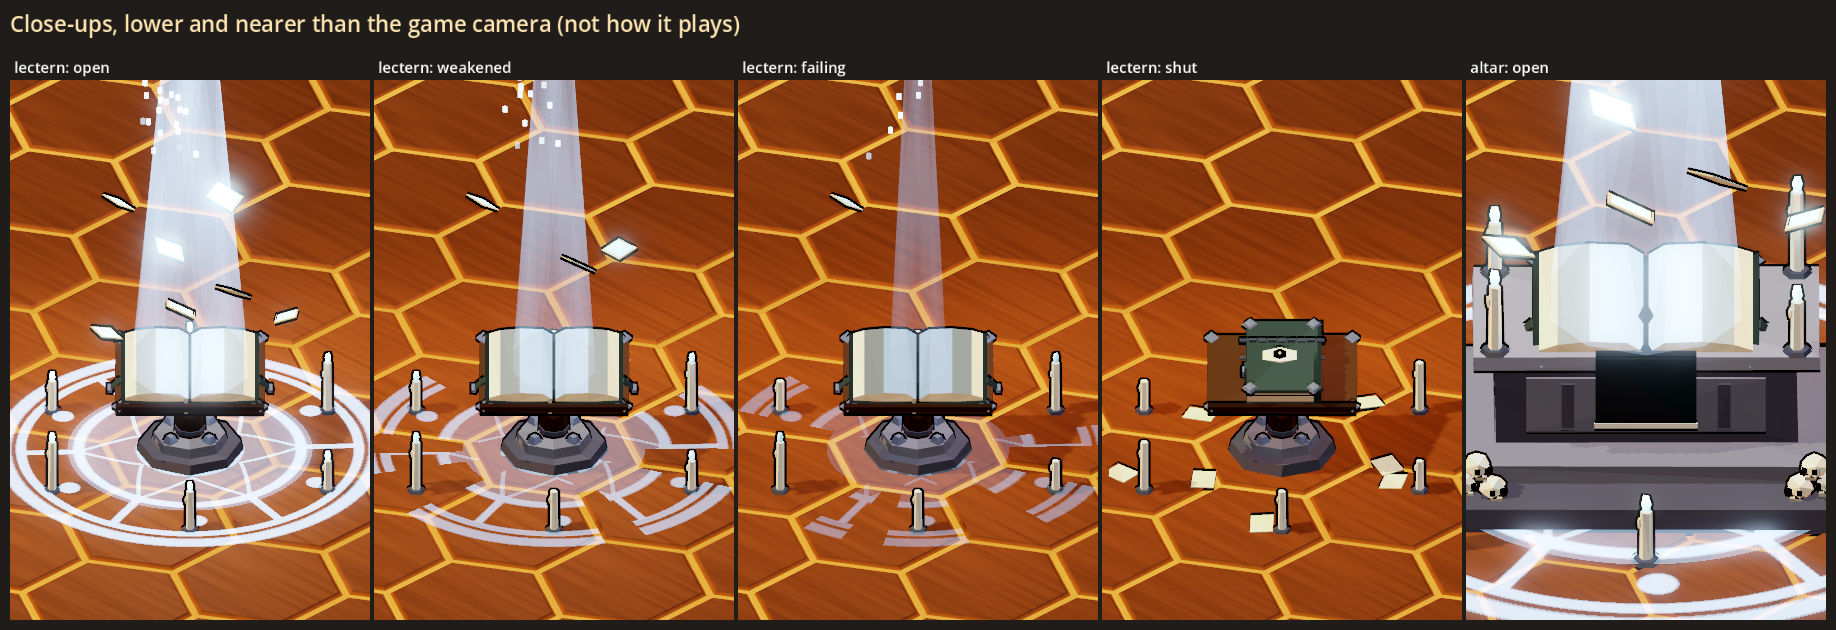
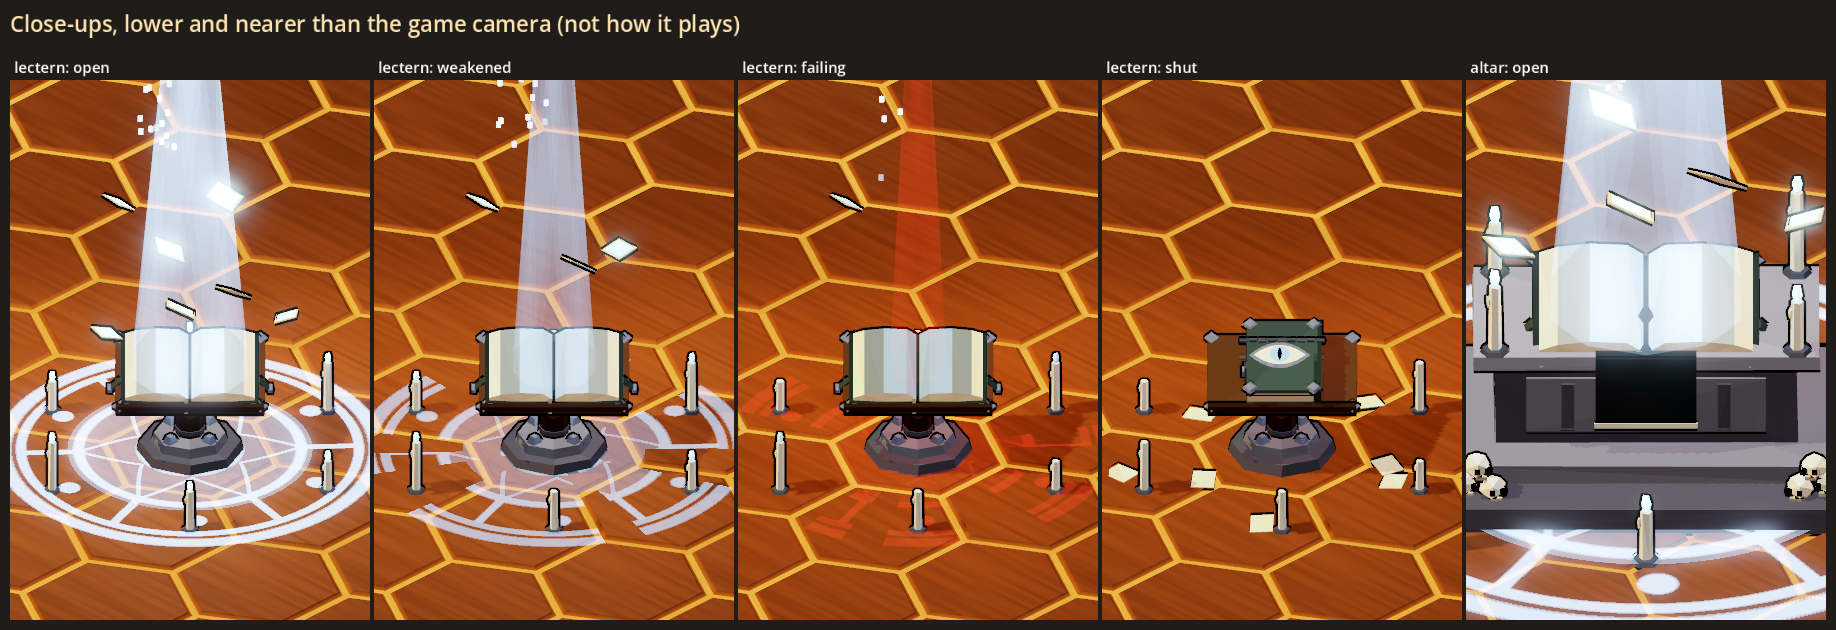
Grimoire: the altar (the user's pick); the cover eye redrawn as a big almond with a glowing iris

diff --git a/docs/design/necro-look.md b/docs/design/necro-look.md
@@ -30,12 +30,17 @@ on eyes, hands, flames and pages, and the rim (the faceted fresnel) on the raise
   light drops as it weakens. The torn and burnt books are gone. (The sections below still describe the first version.)
 - **A failing book's flicker tends red**: "Failing - maybe we have the flicker tend red?" Failing, its column, circle and
   light lean toward red (`GrimoireModel.FAIL_RED`), most in the stutter's dips.
+- **The grimoire stands on the altar** (the user, 2026-10-29: "I like the bigger size"): the altar at 1.4 over the
+  lectern at 0.85.
+- **The eye on the shut cover, redrawn** (the user: "the eye on the cover of the book isn't coming across well. Can we
+  adjust it?"): a big pointed almond across the cover in an iron rim, bone white, a round iris still faintly glowing in
+  the ghost colour, a slit pupil (`GrimoireModel._almond`). It was a small bone oval round a dark dot.
 
 ## What the user is choosing
 
 - **Which zombie**, or both: the **mourner** or the **digger**.
 - **Which acolyte**, or both: the **cowl** or the **mask**.
-- **Which grimoire stand**, or both by site: the **lectern** or the **altar**.
+- **Which grimoire stand**: the **altar** (decided, see "The user's read").
 - **Two switches**, which can be set separately:
 
 | Switch | Options | What it does |
